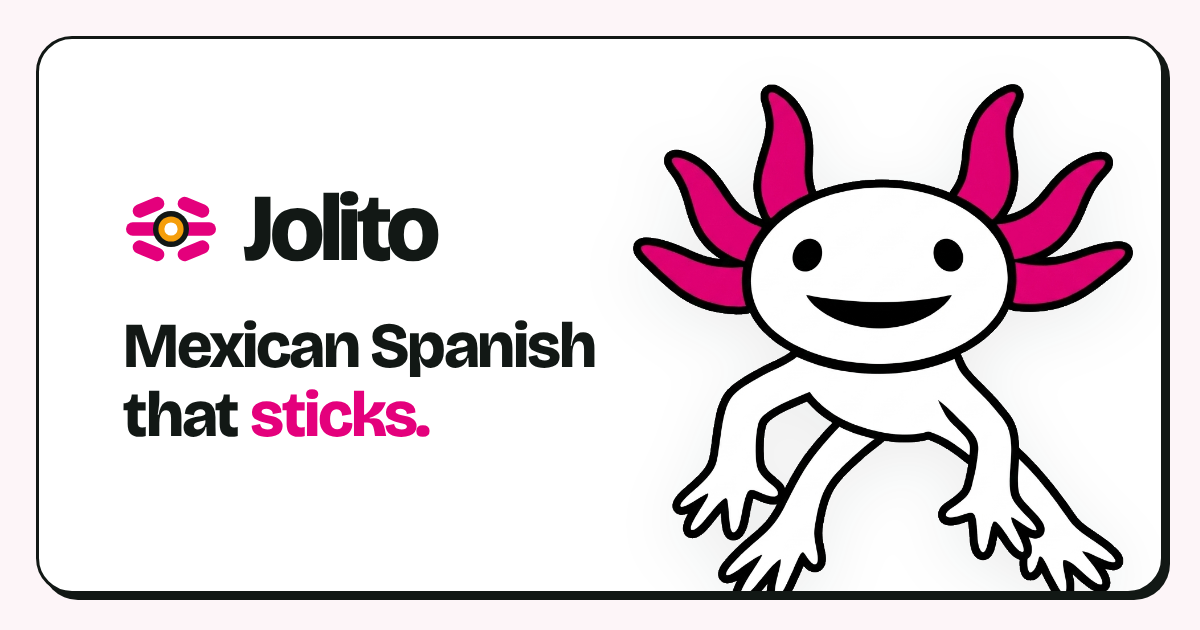
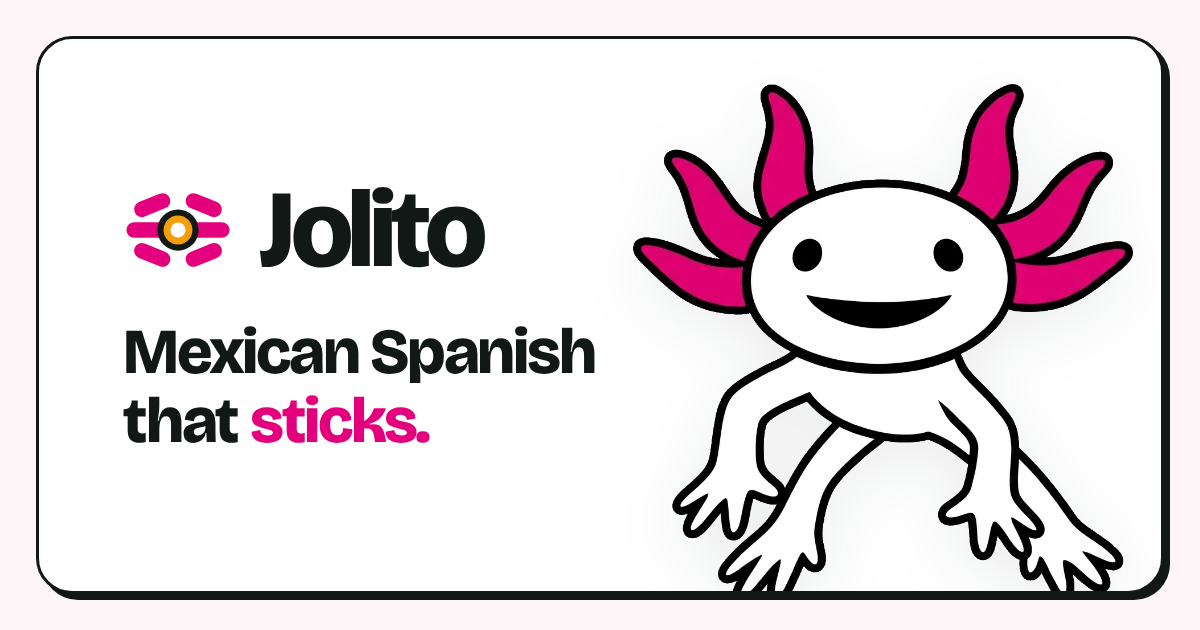
feat(seo): enlarge Jolito mark and logotype to 110px

Changed region(s): [[0.0925, 0.5127, 0.4933, 0.7238], [0.0925, 0.3016, 0.4317, 0.4222]]

diff --git a/scripts/generate-seo-assets.ts b/scripts/generate-seo-assets.ts
@@ -94,7 +94,7 @@ async function main() {
     ),
   ).toString('base64')
 
-  const logoSvg = `<svg class="brand-mark" viewBox="0 0 32 32" width="96" height="96" xmlns="http://www.w3.org/2000/svg">
+  const logoSvg = `<svg class="brand-mark" viewBox="0 0 32 32" width="110" height="110" xmlns="http://www.w3.org/2000/svg">
   <g fill="#e4007c">
     <rect x="3" y="6.5" width="11" height="4.5" rx="2.25" transform="rotate(-22 8.5 8.75)" />
     <rect x="1" y="13.75" width="12" height="4.5" rx="2.25" />
@@ -139,7 +139,7 @@ async function main() {
     display: flex;
     position: relative;
     overflow: hidden;
-    padding: 68px 84px;
+    padding: 64px 84px;
     align-items: center;
     justify-content: space-between;
   }
@@ -147,21 +147,21 @@ async function main() {
     display: flex;
     flex-direction: column;
     justify-content: center;
-    max-width: 610px;
+    max-width: 630px;
     z-index: 2;
   }
   .brand-row {
     display: flex;
     align-items: center;
-    gap: 24px;
-    margin-bottom: 34px;
+    gap: 26px;
+    margin-bottom: 32px;
   }
   .brand-mark {
     display: block;
     flex-shrink: 0;
   }
   .brand-title {
-    font-size: 96px;
+    font-size: 110px;
     font-weight: 800;
     color: #121815;
     letter-spacing: -0.04em;
